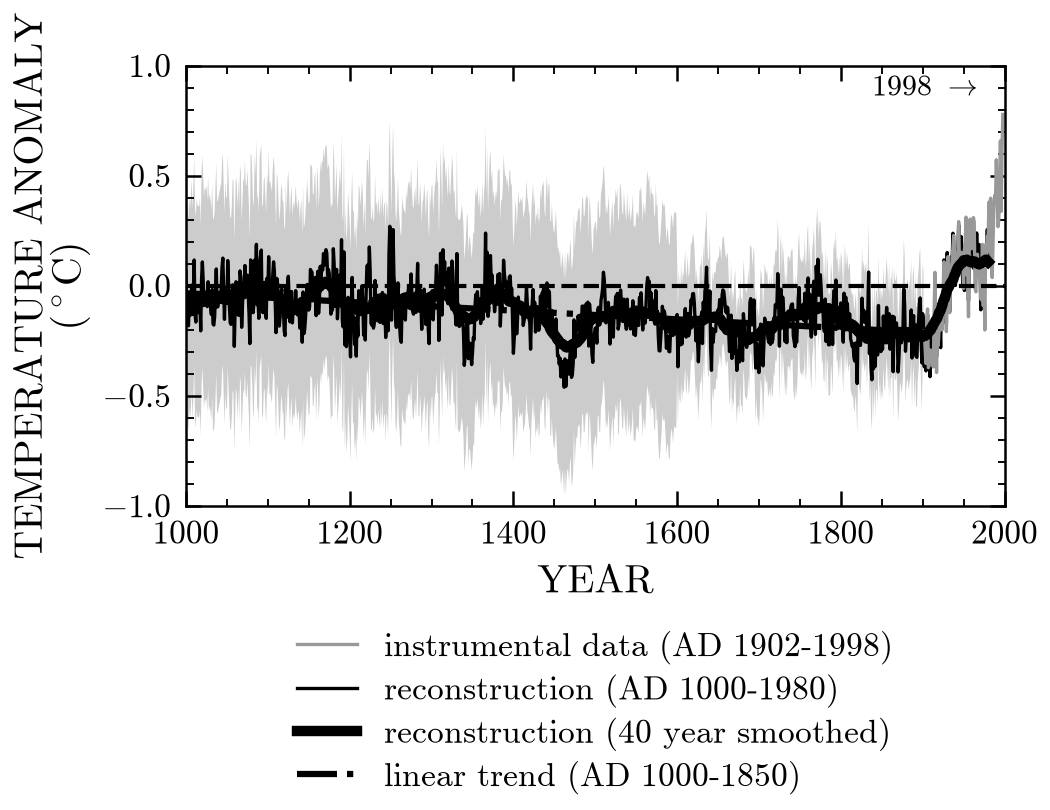
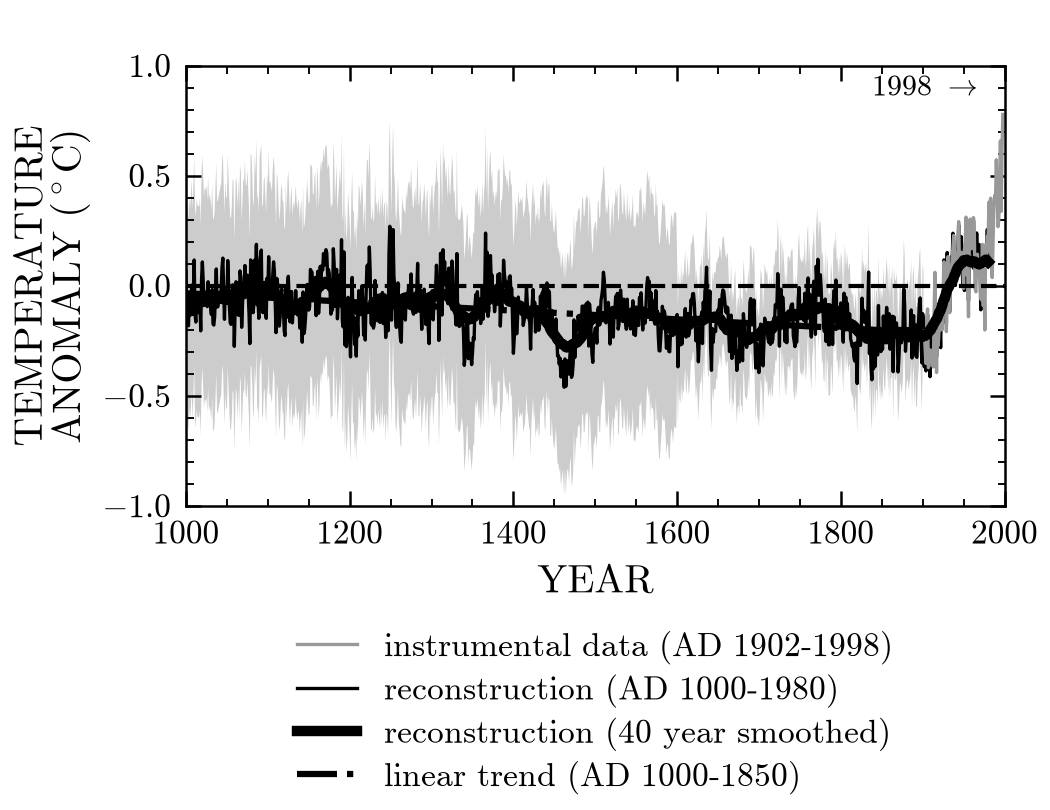
Axis label breaks: weigh math by its printed length, so the longer line is shortest

Changed region(s): [[0.0, 0.0309, 0.0914, 0.679]]

diff --git a/src/plotipus/plot.py b/src/plotipus/plot.py
@@ -247,9 +247,16 @@ def apply_measured_layout(fig, iterations=2):
         fig.set_dpi(figure_dpi)
 
 
+def _visible_length(text):
+    """Rough printed length of ``text``: math (``$...$``) counts a third of
+    its source, which is mostly markup."""
+    parts = text.split("$")
+    return sum(len(part) / 3 if i % 2 else len(part) for i, part in enumerate(parts))
+
+
 def _break_label(text):
-    """``text`` on two lines, broken at the space nearest its middle that is
-    not inside ``$...$`` math; None when there is no such space."""
+    """``text`` on two lines, broken at the space (outside ``$...$`` math)
+    that makes the longer line shortest; None when there is no such space."""
     spaces, math = [], False
     for i, char in enumerate(text):
         if char == "$":
@@ -258,7 +265,7 @@ def _break_label(text):
             spaces.append(i)
     if not spaces or "\n" in text:
         return None
-    cut = min(spaces, key=lambda i: abs(i - len(text) / 2))
+    cut = min(spaces, key=lambda i: max(_visible_length(text[:i]), _visible_length(text[i + 1:])))
     return text[:cut] + "\n" + text[cut + 1:]
 
 
